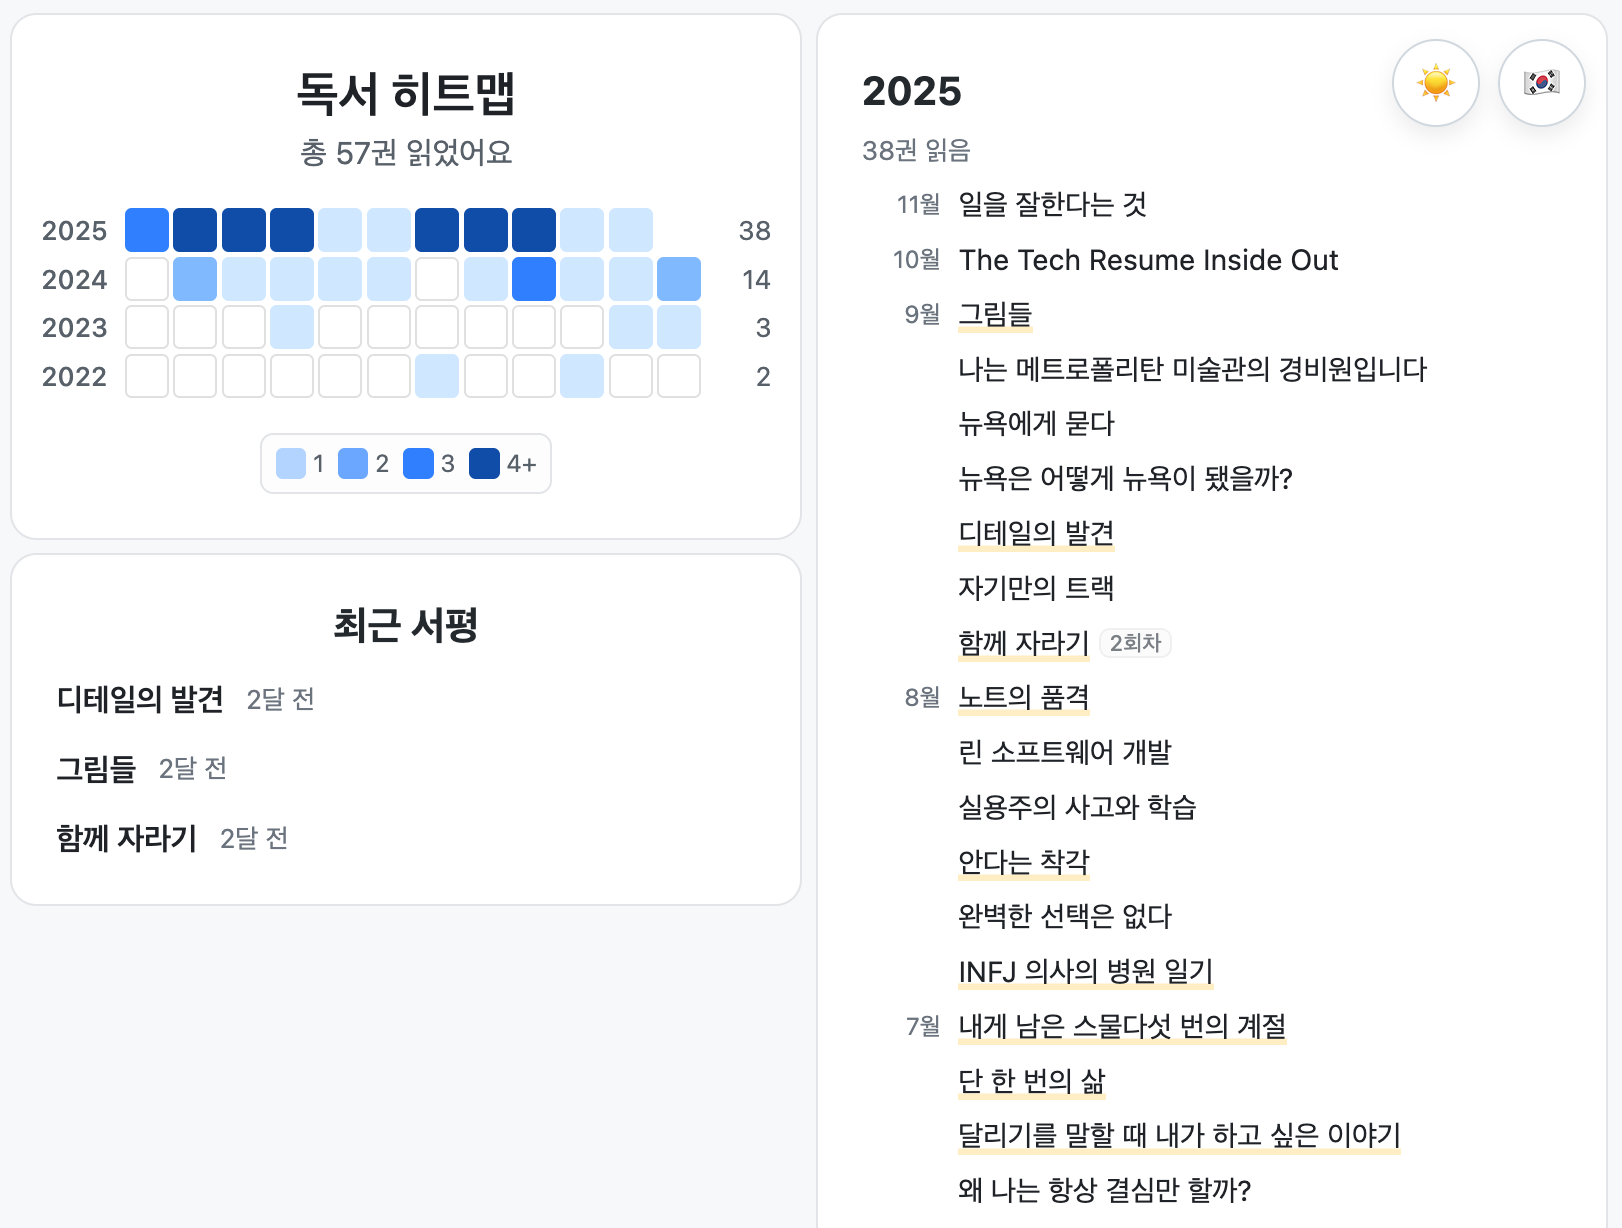
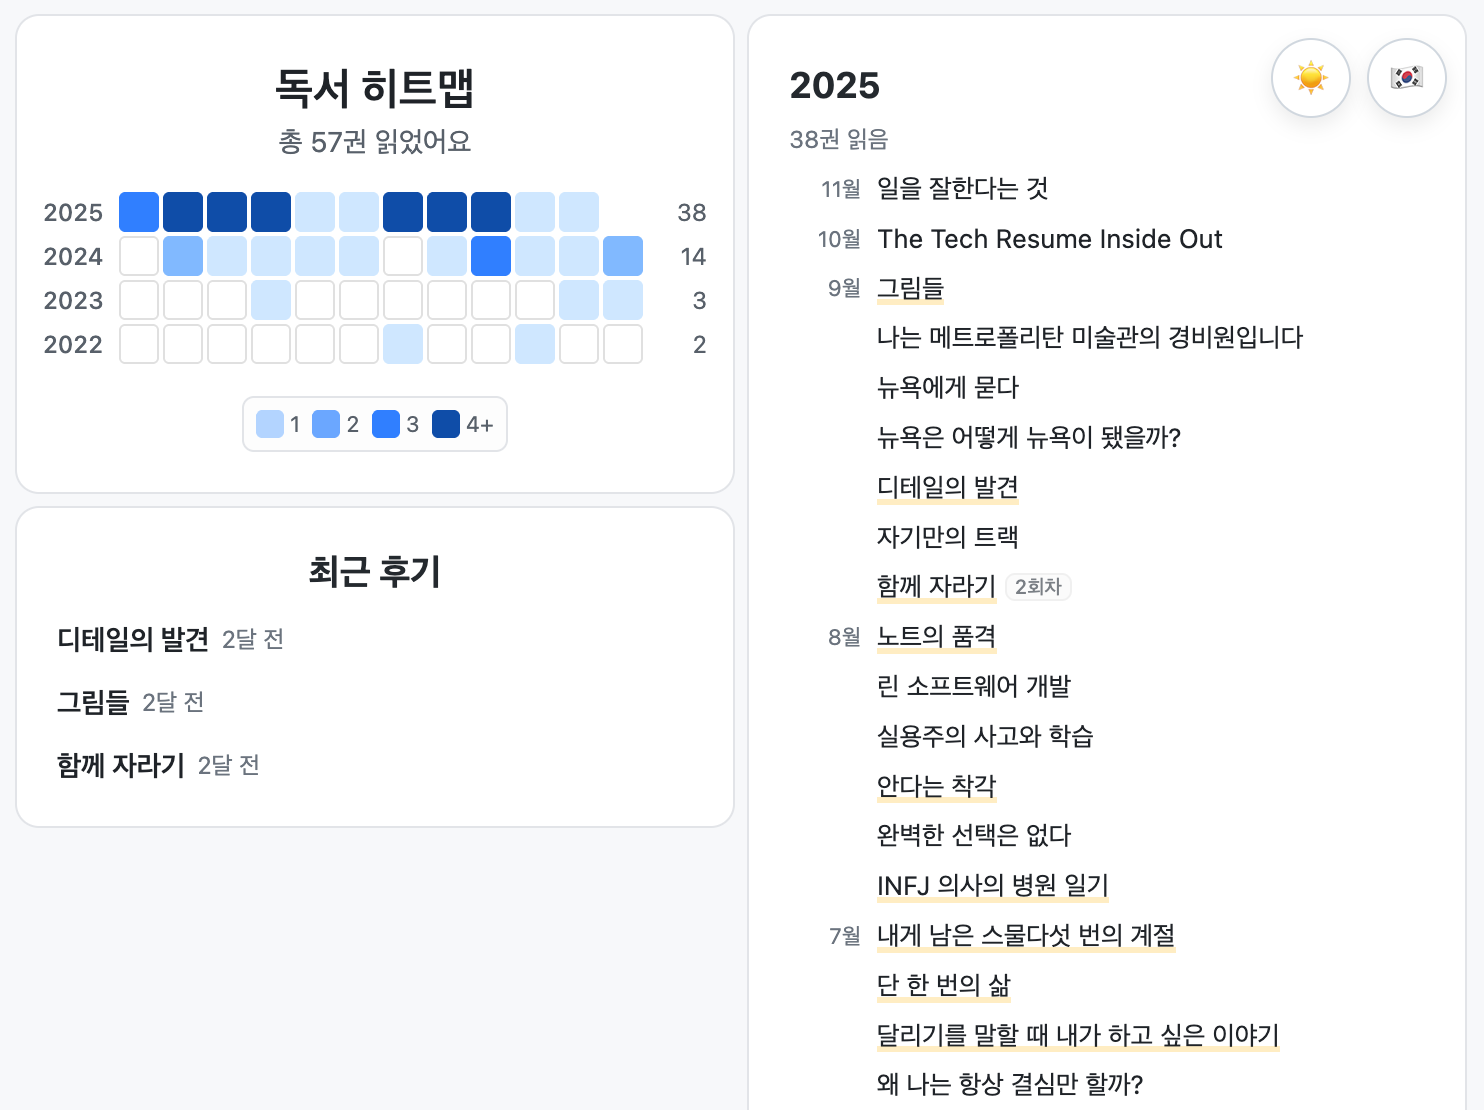
서평 목록 url 고치기 (#17)

diff --git a/src/home.js b/src/home.js
@@ -34,9 +34,9 @@ const TEXT = {
         toggleLabel: 'English',
         toggleAriaLabel: '영어로 전환',
         tooltipBullet: '•',
-        reviewsTitle: '최근 서평',
+        reviewsTitle: '최근 후기',
         noReviews: '아직 작성된 서평이 없어요.',
-        reviewsListAria: '서평 목록 페이지로 이동'
+        reviewsListAria: '후기 목록 페이지로 이동'
     },
     en: {
         heatmapTitle: 'Reading Heatmap',
@@ -55,9 +55,9 @@ const TEXT = {
         toggleLabel: '한국어',
         toggleAriaLabel: 'Switch to Korean',
         tooltipBullet: '•',
-        reviewsTitle: 'Recent Reviews',
-        noReviews: 'No reviews yet.',
-        reviewsListAria: 'Go to reviews list page'
+        reviewsTitle: 'Recent Posts',
+        noReviews: 'No posts yet.',
+        reviewsListAria: 'Go to posts list page'
     }
 };
 
@@ -510,7 +510,7 @@ function renderReviews() {
         container.innerHTML = '';
         const header = createEl('div', 'reviews-header');
         const headingLink = createEl('a', 'reviews-title-link', t('reviewsTitle'));
-        headingLink.href = '/reviews';
+        headingLink.href = '/books/reviews';
         const heading = createEl('h2');
         heading.appendChild(headingLink);
         header.appendChild(heading);

diff --git a/review-detail.html b/review-detail.html
@@ -14,7 +14,7 @@
         <div class="review-topbar">
             <div class="review-nav-buttons">
                 <button id="theme-toggle" class="nav-button theme-toggle" aria-label="Switch to dark mode">☀</button>
-                <a class="nav-button list-button" href="{{ '/reviews' | relative_url }}" aria-label="서평 목록으로">
+                <a class="nav-button list-button" href="{{ '/books/reviews' | relative_url }}" aria-label="서평 목록으로">
                     <svg width="20" height="20" viewBox="0 0 24 24" fill="none" stroke="currentColor" stroke-width="2"
                         stroke-linecap="round" stroke-linejoin="round">
                         <line x1="8" y1="6" x2="21" y2="6"></line>

diff --git a/review-list.html b/review-list.html
@@ -1,6 +1,6 @@
 ---
 layout: null
-permalink: /reviews
+permalink: /books/reviews
 ---
 <!DOCTYPE html>
 <html lang="ko">
@@ -8,7 +8,7 @@ permalink: /reviews
 <head>
     <meta charset="UTF-8">
     <meta name="viewport" content="width=device-width, initial-scale=1.0">
-    <title>서평 목록</title>
+<title>후기 목록</title>
     <link rel="stylesheet" href="{{ '/src/style.css' | relative_url }}">
 </head>
 
@@ -26,7 +26,7 @@ permalink: /reviews
                 </a>
             </div>
         </div>
-        <h1>서평 목록</h1>
+        <h1>후기 목록</h1>
         <div id="reviews-list" class="reviews-list-body"></div>
     </main>
 

diff --git a/_layouts/post.html b/_layouts/post.html
@@ -18,7 +18,7 @@
   <main class="review-container">
     <div class="review-topbar">
       <div class="review-nav-buttons">
-        <a class="nav-button list-button" href="{{ '/reviews' | relative_url }}" aria-label="서평 목록으로">
+        <a class="nav-button list-button" href="{{ '/books/reviews' | relative_url }}" aria-label="서평 목록으로">
           <svg width="20" height="20" viewBox="0 0 24 24" fill="none" stroke="currentColor" stroke-width="2"
             stroke-linecap="round" stroke-linejoin="round">
             <line x1="8" y1="6" x2="21" y2="6"></line>

diff --git a/src/style.css b/src/style.css
@@ -831,15 +831,21 @@ body.dark-mode .review-content a:hover {
 }
 
 .review-short-badge {
-    font-size: 8px;
+    font-size: 10px;
     font-weight: 600;
     border: 1px solid #e5e7eb;
-    padding: 1px 3px;
-    border-radius: 4px;
+    padding: 2px 6px;
+    border-radius: 6px;
     background: #f9fafb;
     color: #6b7280;
     line-height: 1.3;
     white-space: nowrap;
+}
+
+body.dark-mode .review-short-badge {
+    border-color: #374151;
+    background: #1f2937;
+    color: #d1d5db;
 }
 
 .review-title {

diff --git a/assets/post-buttons.js b/assets/post-buttons.js
@@ -7,7 +7,7 @@
       <a class="post-button" href="{{ '/' | relative_url }}" aria-label="홈으로">
         <span aria-hidden="true">🏠</span>
       </a>
-      <a class="post-button" href="{{ '/reviews' | relative_url }}" aria-label="서평 목록으로">
+      <a class="post-button" href="{{ '/books/reviews' | relative_url }}" aria-label="서평 목록으로">
         <span aria-hidden="true">📚</span>
       </a>
     `;

diff --git a/README.md b/README.md
@@ -9,15 +9,9 @@
 
 ## 시작하기
 
-1. **템플릿 복사**
-   - 이 저장소를 템플릿으로 사용하거나 fork 합니다.
-   - 기본으로 제공되는 데이터는 `books.csv.example`에 있으며, 개인 기록을 시작하려면 이 파일을 복사해 `books.csv`를 만든 뒤 편집하세요.
-2. **데이터 입력 규칙**
-   - CSV 컬럼 순서는 `title, english-title, year, month` 입니다.
-   - `english-title`은 선택값입니다. 비워두면 `title`이 두 언어 모드에서 그대로 표시됩니다.
-   - 재독 시에는 같은 책을 여러 행으로 기록합니다. 가장 최근 행에만 `N회차` 뱃지가 표시됩니다.
-3. **아이콘 커스터마이즈**
-   - `favicon.ico`를 원하는 아이콘으로 교체하면 탭 아이콘이 변경됩니다 (fork한 저장소에서만 수정).
+1. 템플릿을 fork/Use this template로 복사합니다.
+2. `books.csv.example`를 `books.csv`로 복사해 내용을 채웁니다. 컬럼 순서: `title, english-title, year, month`.
+3. `favicon.ico`를 교체하면 탭 아이콘이 바뀝니다.
 
 ## GitHub Pages 배포
 
@@ -26,7 +20,13 @@
 
 이후 개인 fork에서 `books.csv`와 `favicon.ico`만 유지한 채 upstream 업데이트를 쉽게 받아 새로운 스타일이나 기능을 적용할 수 있습니다.
 
-## 서평 작성
+## 디버깅하기
+
+- 로컬에서 보기: `bundle install` 후 `bundle exec jekyll serve --future`.
+- 빌드가 막힐 때: Liquid 에러는 `_posts` 파일의 잘못된 `{% post_url %}`나 프론트매터를 확인하세요.
+- 캐시 초기화: `_site`, `.jekyll-cache`, `vendor`, `.bundle`을 지우고 다시 실행.
+
+## 책 후기 작성하기
 
 - `_posts/YYYY-MM-DD-slug.md` 형태로 파일을 추가합니다. 예시:
 
@@ -37,16 +37,11 @@ date: 2025-09-20
 title: 제목
 author: 저자명
 publication_year: 2024
+detail: true # 정독 후기면 true, 아니면 생략/false
 ---
 
 본문을 Markdown으로 작성하세요. 중첩 리스트, 코드 블록, 이미지(`assets/` 경로) 등을 지원합니다.
 ```
 
-- 목록: `/reviews`에서 서평 목록을 확인하고, 개별 파일은 퍼머링크(`/slug`)로 이동합니다. 서평 인덱스는 빌드 시 Jekyll이 생성하는 `src/reviews-data.js`(글로벌 `window.REVIEWS`)를 사용합니다.
-
-## 로컬 개발 (bundle)
-
-1. `bundle install`
-2. `bundle exec jekyll serve --future`
-
-`http://localhost:4000`에서 퍼머링크(`/slug`)까지 확인할 수 있습니다.
+- 목록: `/books/reviews`에서 후기 목록을 확인하고, 개별 파일은 퍼머링크(`/slug`)로 이동합니다.
+- 후기 데이터는 빌드 시 Jekyll이 `src/reviews-data.js`(전역 `window.REVIEWS`)를 자동 생성합니다.
